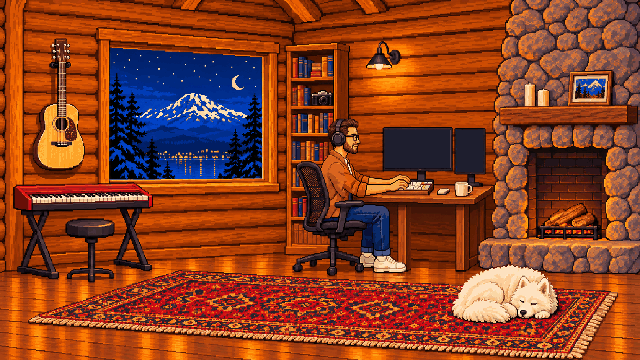
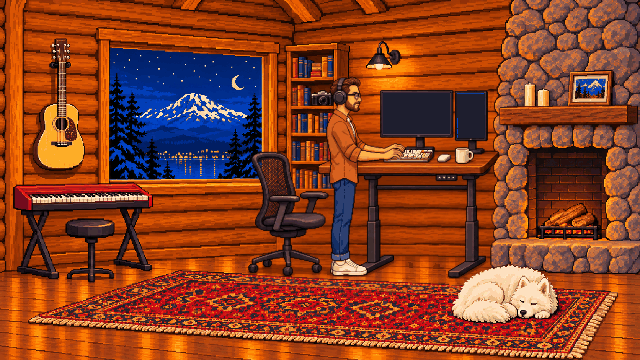
feat(cabin): stand Dan at a walnut sit-stand desk
The desk was a generic wooden one painted without a left leg. It is now
the desk Dan actually has: a solid walnut top on a black lifting frame,
raised, with Dan standing at it and the chair pushed back. Only the desk
group was repainted and laid onto each painting, so the window, the fire
and Mishka are unchanged. The keyboard keeps its original keys, and the
typing frames are repainted for the new hands.

This replaces the left leg that was copied across from the right.

diff --git a/scripts/build-cabin.py b/scripts/build-cabin.py
@@ -1,8 +1,7 @@
 #!/usr/bin/env python3
 """Build the cabin's plate and animation layers from one painted scene per layout.
 
-Each layout is one painting on the art grid, used as painted, with one correction: the desk was painted with no left
-leg, so its right leg is copied across, behind the shoes. The monitors are painted as
+Each layout is one painting on the art grid, used as painted: nothing is pasted onto it. The monitors are painted as
 flat key colours and become the screen masks. Every animation layer is cut from the plate or drawn to fit it; the fire burns in the page, from the hearth measured here.
 
     build-cabin.py ~/danaimone-art public/game src/components/game/room-layouts.json
@@ -13,7 +12,7 @@ import sys
 from collections import deque
 from pathlib import Path
 
-from PIL import Image, ImageFilter
+from PIL import Image
 
 SCREEN_GLASS = (30, 30, 46)
 PALETTE_COLORS = 256
@@ -31,26 +30,24 @@ FIRE_SPREAD = 4
 
 ROOMS = {
     "wide": {
-        "source": "wide.png",
+        "source": "wide-standing.png",
         "fire": {"opening": (537, 153, 603, 232), "grateTop": 226, "logRim": [(544, 217), (550, 211), (560, 206), (570, 201), (578, 199), (582, 203), (585, 210), (590, 215), (592, 221)]},
         "dog": (455, 262, 570, 330), "snore": (552, 270), "snoreDrift": -12,
         "window": (110, 47, 262, 179), "starLight": 150, "city": (150, 148, 240, 162), "lake": (140, 160, 250, 179),
-        "coffee": (462, 182), "candles": [(530, 83), (543, 89)],
-        "blink": (354, 138, 2, 2),
-        "hands": (394, 170, 414, 194),
-        "deskLeg": {"right": (451, 205, 469, 276), "shift": -58, "shoes": (372, 250, 410, 278)},
-        "taps": {"origin": (320, 137), "frames": ["tap-wide-f1.png", "tap-wide-n1.png", "tap-wide-f2.png", "tap-wide-n2.png", "tap-wide-f3.png"]},
+        "coffee": (461, 146), "candles": [(530, 83), (543, 89)],
+        "blink": (353, 91, 3, 2),
+        "hands": (384, 138, 410, 162),
+        "taps": {"origin": (316, 105), "frames": ["tap-wide-f1.png", "tap-wide-n1.png", "tap-wide-f2.png", "tap-wide-n2.png", "tap-wide-f3.png"]},
     },
     "tall": {
-        "source": "tall.png",
+        "source": "tall-standing.png",
         "fire": {"opening": (269, 381, 332, 474), "grateTop": 458, "logRim": [(270, 452), (278, 444), (293, 435), (307, 429), (312, 431), (316, 436), (322, 441), (328, 449)]},
         "dog": (180, 512, 312, 592), "snore": (272, 526), "snoreDrift": -10,
         "window": (18, 164, 142, 298), "starLight": 150, "city": (55, 256, 125, 272), "lake": (40, 268, 125, 298),
-        "coffee": (200, 423), "candles": [(266, 315), (280, 321)],
-        "blink": (81, 367, 2, 2),
-        "hands": (126, 408, 148, 436),
-        "deskLeg": {"right": (190, 449, 208, 515), "shift": -60, "shoes": (98, 494, 150, 522)},
-        "taps": {"origin": (55, 379), "frames": ["tap-tall-f1.png", "tap-tall-n1.png", "tap-tall-f2.png", "tap-tall-n2.png", "tap-tall-f3.png"]},
+        "coffee": (200, 409), "candles": [(266, 315), (280, 321)],
+        "blink": (93, 341, 2, 2),
+        "hands": (114, 400, 146, 424),
+        "taps": {"origin": (50, 367), "frames": ["tap-tall-f1.png", "tap-tall-n1.png", "tap-tall-f2.png", "tap-tall-n2.png", "tap-tall-f3.png"]},
     },
 }
 
@@ -240,28 +237,8 @@ def lake_spans(plate, box):
     return spans
 
 
-def add_left_desk_leg(plate, leg):
-    """Copy the desk's right leg to where the left one stands, leaving the shoes and their outline in front of it."""
-    px = plate.load()
-    sx0, sy0, sx1, sy1 = leg["shoes"]
-    shoes = Image.new("L", plate.size, 0)
-    mark = shoes.load()
-    for y in range(sy0, sy1):
-        for x in range(sx0, sx1):
-            r, g, b = px[x, y]
-            if r > 190 and g > 160 and b > 120:
-                mark[x, y] = 255
-    in_front = shoes.filter(ImageFilter.MaxFilter(3)).load()
-    x0, y0, x1, y1 = leg["right"]
-    copied = {(x + leg["shift"], y): px[x, y] for y in range(y0, y1) for x in range(x0, x1)}
-    for (x, y), color in copied.items():
-        if not in_front[x, y]:
-            px[x, y] = color
-
-
 def build(art, out, name, spec):
     plate = Image.open(art / "cabin2" / spec["source"]).convert("RGB")
-    add_left_desk_leg(plate, spec["deskLeg"])
     magenta = keyed(plate, lambda r, g, b: r > 170 and b > 170 and g < 90)
     cyan = keyed(plate, lambda r, g, b: g > 170 and b > 170 and r < 90)
     main, side = box_of(magenta), box_of(cyan)

diff --git a/README.md b/README.md
@@ -6,7 +6,7 @@ Built with Bun, Astro 7, Svelte 5, TypeScript, and canvas. The page is static HT
 
 ### Art pipeline
 
-Art was generated with GPT Image (via Codex) from the prompts in `scripts/art-prompts/`, using the avatar as the identity reference and the Dan sheet as the style reference for everything else. Raw generations are not committed. Each one is cleaned into true pixel art, and building night lights are extracted. The cabin is built differently: each layout is one scene painted from scratch on a 4 px art grid (`cabin-wide.txt`, then `cabin-hands.txt` for the hands, then `cabin-tall.txt` to repaint the same room for phones). `scripts/build-cabin.py` uses each painting as painted (its one correction is the desk's left leg, copied from the right one), measures the hearth for the fire the page simulates, and draws Mishka's breathing to fit it. The typing frames are painted too: `cabin-typing.txt` is run on a 16x close-up of the hands, once per finger pose, and only the finger pixels that changed are kept, with `room-layouts.json` as the manifest. The monitors are generated as flat key colors, so the masks come straight from the art.
+Art was generated with GPT Image (via Codex) from the prompts in `scripts/art-prompts/`, using the avatar as the identity reference and the Dan sheet as the style reference for everything else. Raw generations are not committed. Each one is cleaned into true pixel art, and building night lights are extracted. The cabin is built differently: each layout is one scene painted from scratch on a 4 px art grid (`cabin-wide.txt`, then `cabin-hands.txt` for the hands, then `cabin-tall.txt` to repaint the same room for phones). The desk group was then repainted as a walnut sit-stand desk with Dan standing at it (`cabin-desk.txt`, and `cabin-desk-tall.txt` for phones), and only that group was laid back onto each painting. `scripts/build-cabin.py` uses each painting as painted, with nothing pasted on, measures the hearth for the fire the page simulates, and draws Mishka's breathing to fit it. The typing frames are painted too: `cabin-typing.txt` is run on a 16x close-up of the hands, once per finger pose, and only the finger pixels that changed are kept, with `room-layouts.json` as the manifest. The monitors are generated as flat key colors, so the masks come straight from the art.
 
 ```sh
 python3 scripts/pixelize.py raw/dan-sheet.png out/dan --frames 6 --height 84 --colors 28
